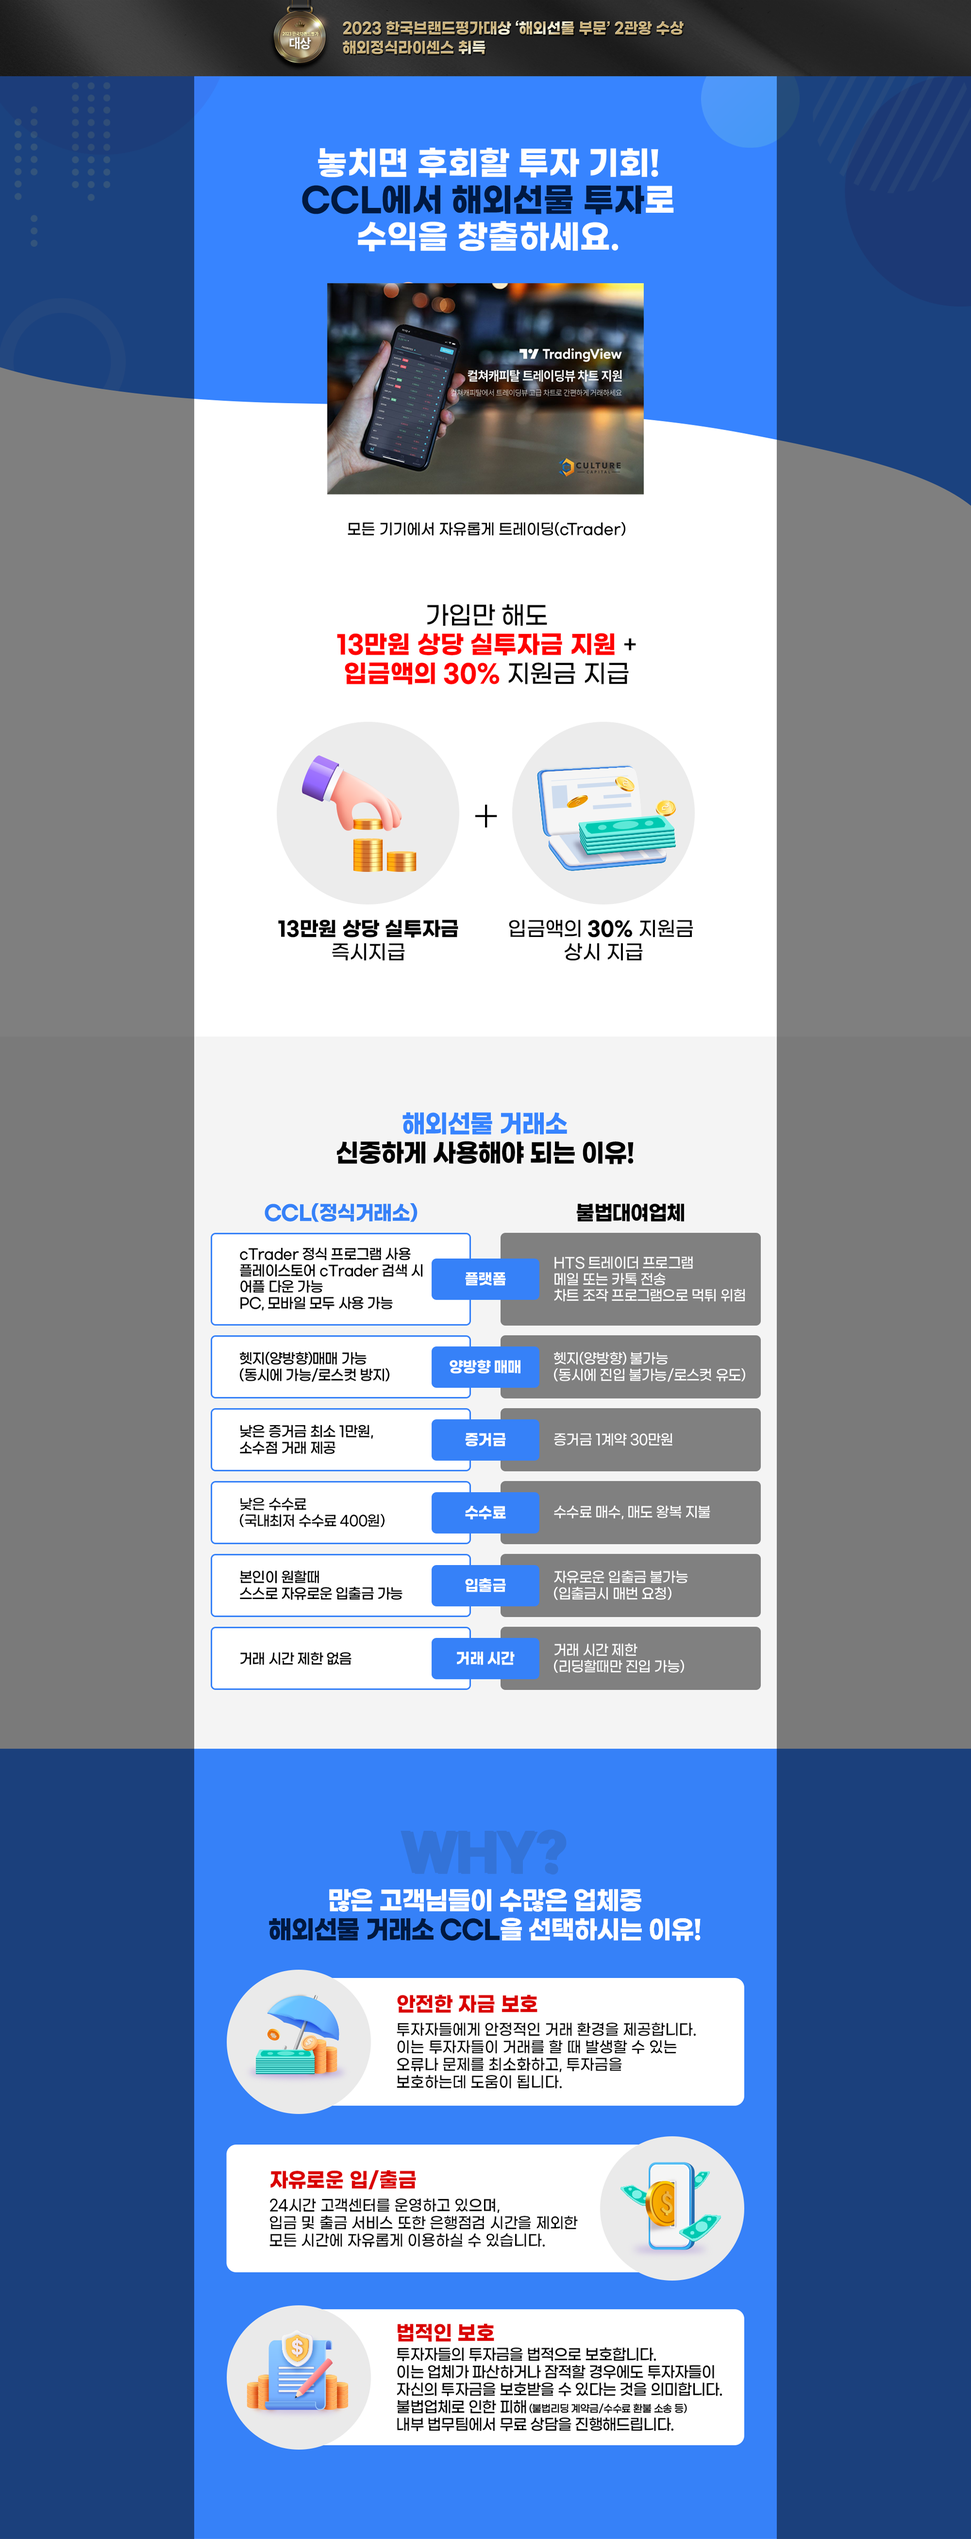
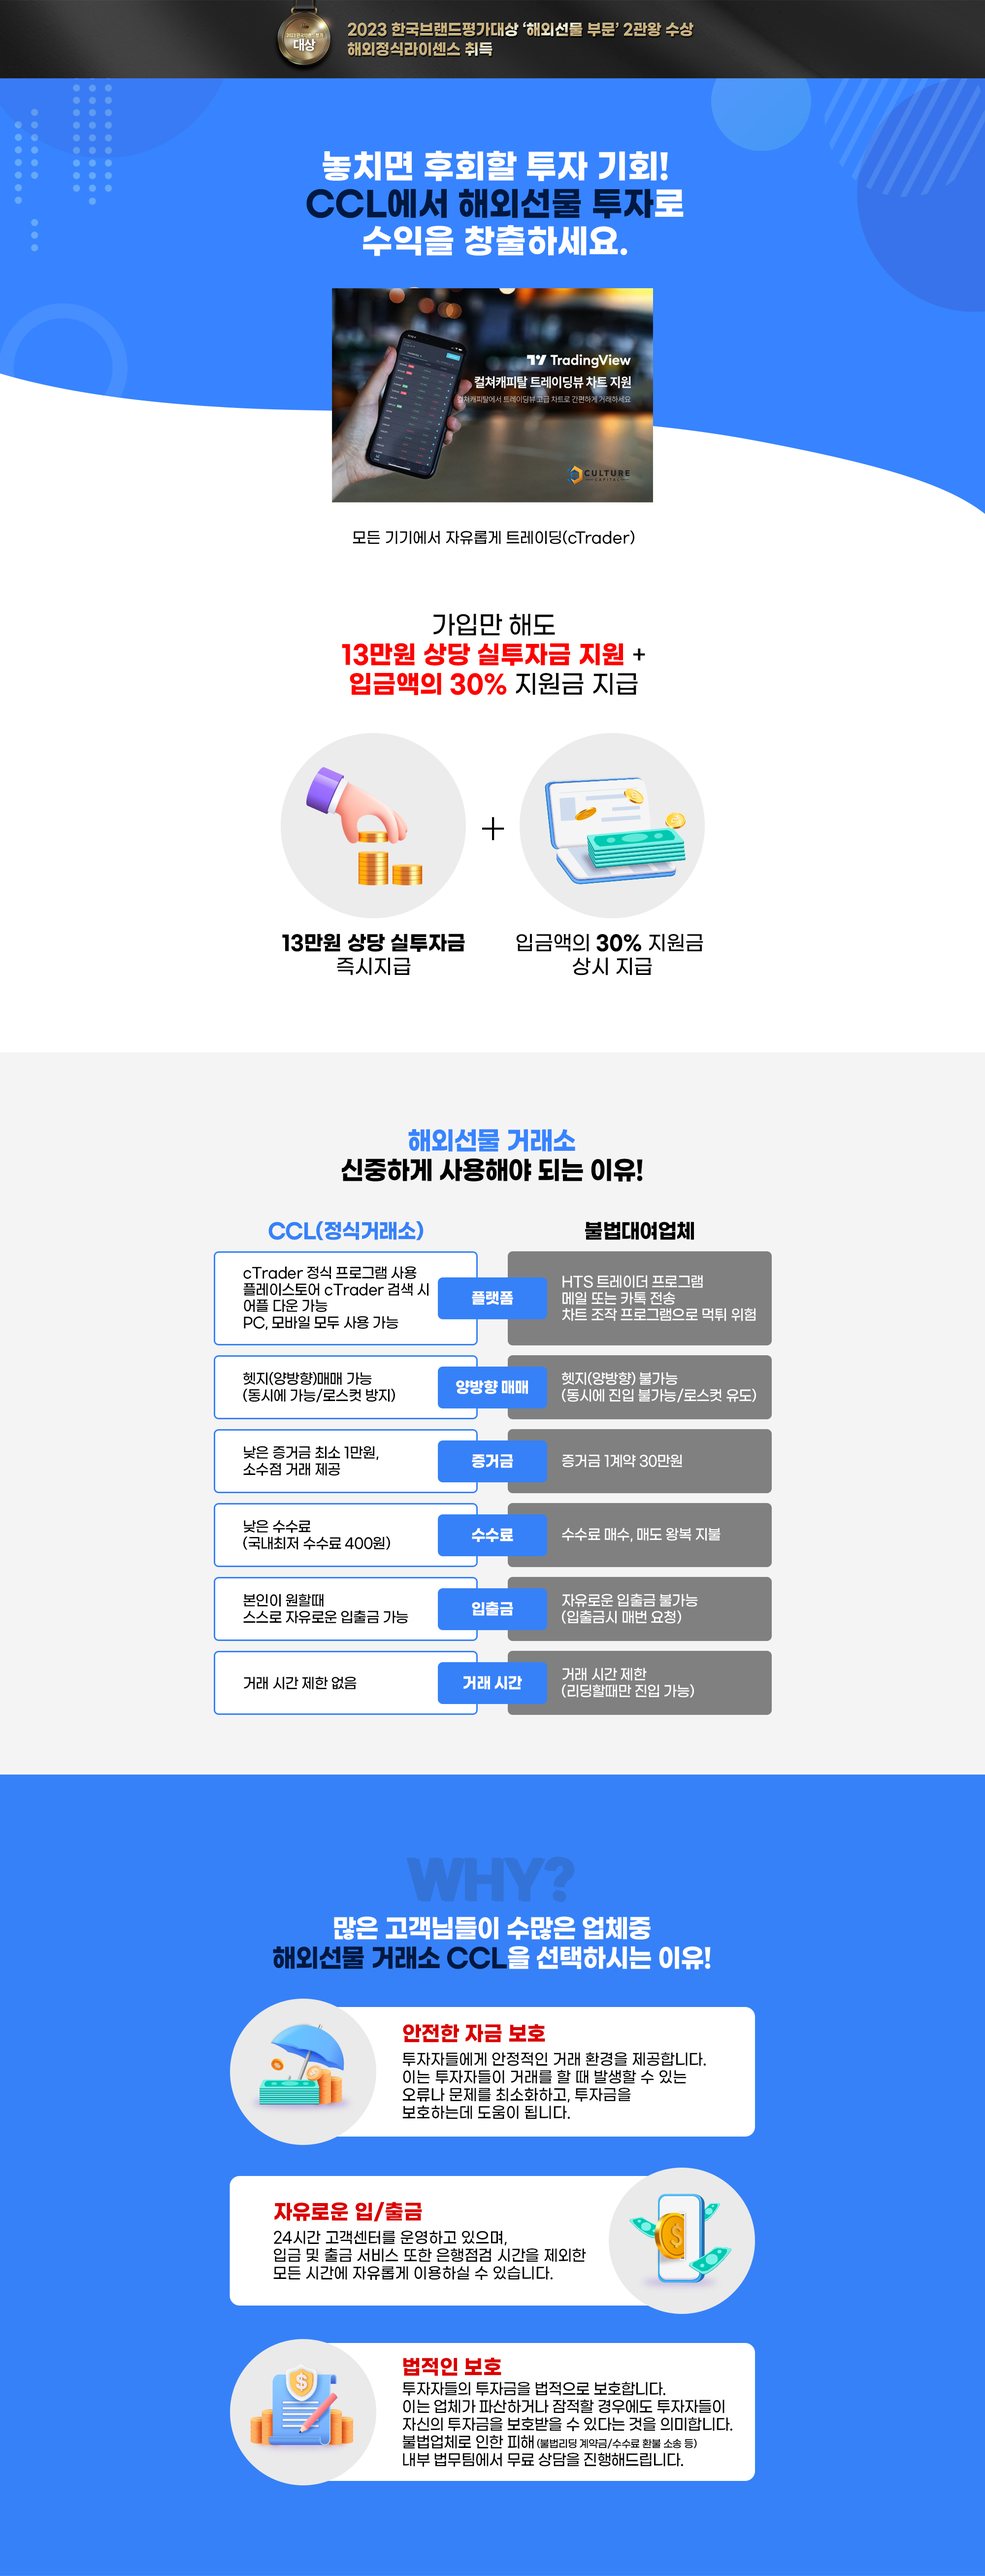
committtt

diff --git a/k-finance.co.kr/02/css/common.css b/k-finance.co.kr/02/css/common.css
@@ -1,7 +1,10 @@
 *{ margin: 0; padding: 0; vertical-align: top; }
 
 img { max-width: 100%; height: auto; }
-
+a {
+    text-decoration: none;
+    cursor: pointer;
+}
 
 
 .landing-wrap {
@@ -12,7 +15,9 @@ img { max-width: 100%; height: auto; }
 
 .landing-wrap .link_a {
     position: absolute;
-    right: 30px; bottom: 30px;
+    right: 30px; bottom: 50px;
+    z-index: 9999;
+
 }
 
 .landing-wrap .link_a > a >  img {
@@ -39,6 +44,46 @@ img { max-width: 100%; height: auto; }
 }
 
 
+.landing-wrap .section-04 {
+    background: url("../image/ccl)main_04.png") no-repeat center;
+    background-size: cover;
+    height: 1167px;
+    position: relative;
+
+}
+
+.landing-wrap .section-04 .section-04-inner{
+
+    position: absolute;
+    left: 50%; top: 50%;
+    transform: translate(-50%,-50%);
+    width: 50%;
+    height: %;
+    background-color: #fff;
+    padding: 20px 30px;
+}
+
+.landing-wrap .section-04 .section-04-inner > form > input {
+    background: #f2f2f2;
+    border: none;
+    padding: 10px 0 10px 15px;
+    width: 97%;
+    display: block;
+
+    margin: 15px 0;
+}
+
+.landing-wrap .section-04 .section-04-inner > .section-04-btn-submit {
+ background: #2f77d8;
+    color: #fff;
+    font-size: 28px;
+    font-weight: 500;
+    border: none;
+    padding: 10px 25px;
+    width: 100%;
+    margin-top: 20px;
+}
+
 @media (min-width: 768px) {
     .mySwiper{
         margin-top: 25%;
@@ -53,7 +98,26 @@ img { max-width: 100%; height: auto; }
         margin-top: 25%;
         margin-bottom: 5%;
         width: 50%;
-        height: 60px;
+        height: 80px;
+
+
+        font-size: 0.75em;
+    }
+
+    .mySwiper .swiper-slide {
+
+        height: 20px !important;
+    }
+
+    .landing-wrap .link_a > a > img {
+
+        height: 40px;
+    }
+
+    .landing-wrap .section-04 {
+        background: url("../image/ccl)main_04.png") no-repeat center;
+        background-size: cover;
+        height: 583px;
     }
 }
 

diff --git a/k-finance.co.kr/02/index.html b/k-finance.co.kr/02/index.html
@@ -31,7 +31,7 @@
         <!-- End Google Tag Manager (noscript) -->
         <div class="landing-wrap">
             <div class="link_a">
-                <a href="">
+                <a href="https://www.k-finance.co.kr/" target="_blank">
                     <img src="./image/icon.png">
                 </a>
             </div>
@@ -97,6 +97,34 @@
                     </div>
                 </div>
             </div>
+        </section>
+<!-- section2 END-->
+
+        <section class="section-03">
+            <div>
+                <img src="./image/k-finance_02.png" alt="">
+            </div>
+        </section>
+
+        <section class="section-04">
+            <div class="section-04-inner">
+                <form class="section-04-form">
+                    <input type="text" placeholder="성함을 입력해주세요.">
+                </form >
+                <form>
+                    <input type="text" placeholder="연락처를 입력하세요.">
+                </form >
+                <form>
+                    <a href="" class="modallayer-popup" target="_blank">
+                    <input type="checkbox" >
+                    개인정보처리방침에 동의합니다.[보기]
+                    </a>
+                </form >
+                <button class="section-04-btn-submit">
+                    상담신청
+                </button>
+            </div>
+                <!-- section04 inner-->
         </section>
         </div>
         <!--    lading-wrap  END -->
